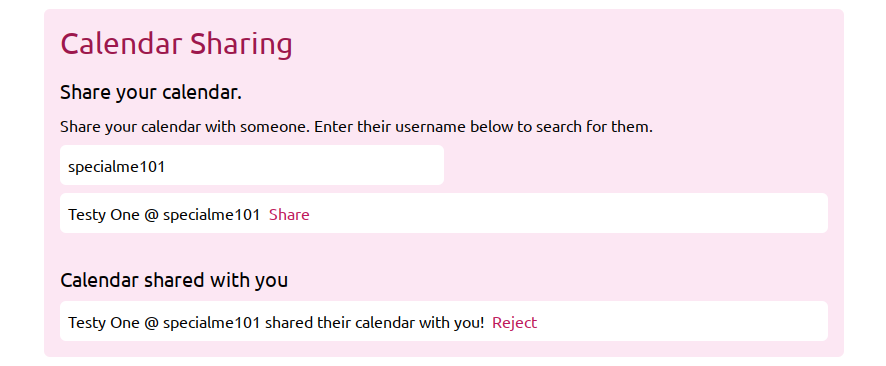
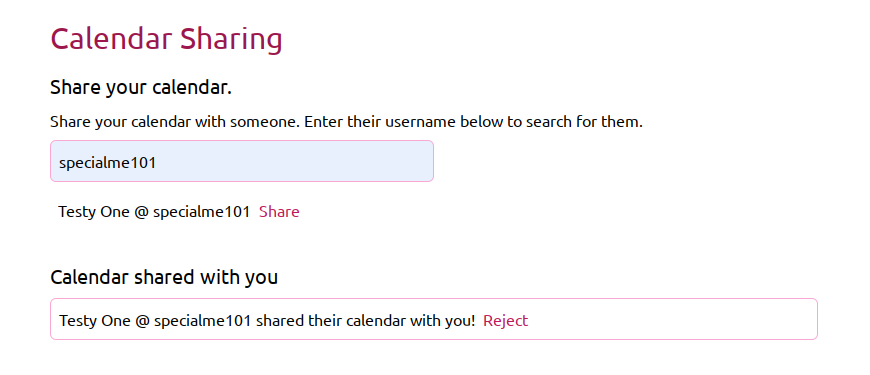
change calendar share section bg to white for web homepage image

diff --git a/templates/profile/shares/calendar-is-shared.html b/templates/profile/shares/calendar-is-shared.html
@@ -4,7 +4,7 @@
 		You've shared your calendar with someone. Unshare the calendar if you want
 		to share with someone else.
 	</p>
-	<p class="flex gap-2 items-center bg-white p-2 rounded-md">{{current_user_sent_share.user.display_name}} @
+	<p class="flex gap-2 items-center bg-white p-2 rounded-md border border-pink-300">{{current_user_sent_share.user.display_name}} @
 		{{current_user_sent_share.user.username}}
 		<button hx-delete="/share-calendar/{{current_user_sent_share.share.id}}"
 				hx-target="#share-section"

diff --git a/templates/profile/shares/calendar-is-received.html b/templates/profile/shares/calendar-is-received.html
@@ -2,7 +2,7 @@
 	{% if not current_user_received_share %}
 	<p class="flex gap-2 items-center bg-white p-2 rounded-md">No one has shared their calendar with you! Oh no!</p>
 	{% else %}
-	<p class="flex gap-2 items-center bg-white p-2 rounded-md">
+	<p class="flex gap-2 items-center bg-white p-2 rounded-md border border-pink-300">
 		{{current_user_received_share.user.display_name}} @ {{current_user_received_share.user.username}} shared
 		their
 		calendar with you!

diff --git a/templates/profile/shares/calendar-not-shared.html b/templates/profile/shares/calendar-not-shared.html
@@ -4,7 +4,7 @@
 		Share your calendar with someone. Enter their username below to search for them.
 	</p>
 	<div class="flex items-center gap-2 w-full">
-		<input class="w-[50%] p-2 rounded-md text-black"
+		<input class="w-[50%] p-2 rounded-md text-black border border-pink-300"
 			   type="search"
 			   name="search_username"
 			   placeholder="Begin Typing To Search Users..."

diff --git a/templates/profile/profile-page.html b/templates/profile/profile-page.html
@@ -26,7 +26,9 @@ Ennytime Profile Page
 			</div>
 		</div>
 	</section>
+	<hr class="my-8 border-pink-200"/>
 	{% include "profile/sections/share-section.html" %}
+	<hr class="my-8 border-pink-200"/>
 	{% include "profile/sections/shift-type-section.html" %}
 </div>
 {% endblock content %}
